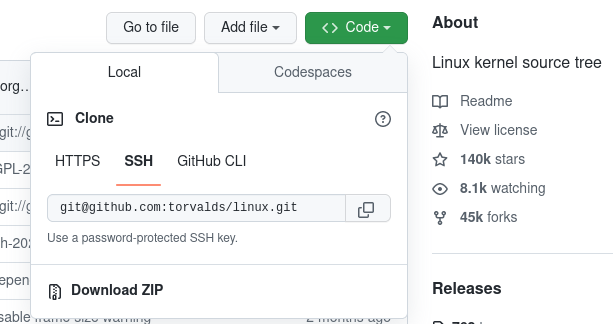
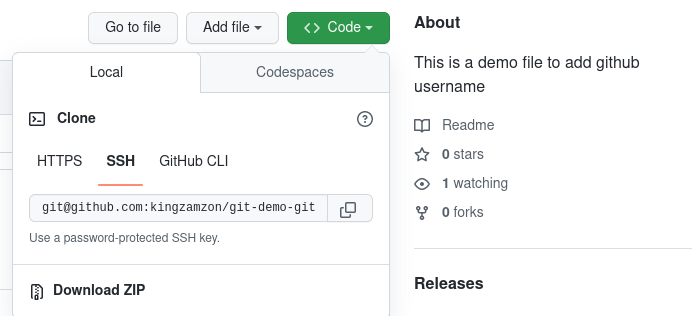
update images and steps

diff --git a/task-1/README.md b/task-1/README.md
@@ -1,8 +1,7 @@
 ## Introduction to GitHub
 
-Have you ever thought of going back to the changes you made to a file in last 2 days after shutting down your laptop? Good news: Version control system are tools that let you have different versions of your file. But what if you lost the file totally on your laptop? GitHub is an online version control system for your local repository/folder.
-One of the popular version control system is Git.
-Git ease collaboration and tracking of file.
+Have you ever thought of going back to the changes you made to a file in last 2 days after shutting down your laptop? Good news, you can do that with version control system. Version control system are tools that let you have different versions of your file e.g Git.
+But what if the file goes missing on your laptop? There are various online version control system e.g GitHub.
 GitHub is an online version of Git. I will work you through basics of GitHub in this article.
 
 ## Prerequisites
@@ -12,15 +11,15 @@ GitHub is an online version of Git. I will work you through basics of GitHub in 
 
 ## What is GitHub?
 
-GitHub is the online version of Git. It host the largest source code in the world.
+GitHub is the online version of Git. It host the largest source code in the world e.g [Linux kernel](https://GitHub.com/torvalds/linux), [vscode](https://github.com/microsoft/vscode) e.t.c
 
 ## Why GitHub?
 
-GitHub cause it houses all the popular source codes ranging from react to Linux kernel. It's popularity make it easy to reach other developers around the world.
+GitHub houses all the popular source codes ranging from [react](https://github.com/facebook/react) to [Nodejs](https://github.com/nodejs/node). It's popularity make it easy to reach other developers around the world.
 
-## Git vs. GitHub
+## Git vs GitHub
 
-Git is a version control system. It is used to track changes on files, enable collaboration on files.
+Git is a decentralized version control system. It is used to track changes on files, enable collaboration on files.
 
 GitHub is a web based version of Git on the internet.
 
@@ -28,49 +27,45 @@ GitHub is a web based version of Git on the internet.
 
 Clone a repository is pulling down a full copy of repository to your local machine.
 
-1. Navigate to the repository you want to clone, in this example we will use clone the [Linux kernel](https://GitHub.com/torvalds/linux)
-2. Click on the green <> code button.
-3. Copy the url for the repository by clicking on the copy button ![Copy Button](./images/img2a.png) using one of the option HTTPS, SSH or GitHub CLI
+1. Navigate to the repository you want to clone, in this example I will clone the [Git Demo Github](https://github.com/kingzamzon/git-demo-github) repository.
+2. Click on the green `<> code` button.
+3. Copy the url for the repository by clicking on the copy button ![Copy Button](./images/img2a.png) using the SSH option.
    ![Copy drop down](./images/img2b.png)
 4. Open Your Terminal
 5. Type `git clone` and paste the link you copied in 3, press enter to start cloning.
-
-![Clone Button](./images/img1.png)
+   ![Clone Button](./images/img2c.png)
 
 ## Pull request
 
 Pull Request is a way to contribute to repository on GitHub. It is a mechanism for a developer to notify team members that they have completed a feature.
 
-1. Fork the repository, by clicking on the fork buton. In this example I am using this repo [App-Ideas Repository](https://GitHub.com/DannieBabz/App-Ideas--JS)
+1. Fork the repository, by clicking on the fork button. In this example I using the [Git Demo Github](https://github.com/kingzamzon/git-demo-github) repository.
 
-![Fork Button](./images/img3.png)
+   ![Fork Button](./images/img3.png)
 
 2. You will be navigated to the create a new fork section in which you can change the name of the repository name. When you done, Click on the `Create fork` button.
-
-![Fork Section](./images/img4.png)
+   ![Fork Section](./images/img4.png)
 
 3. Clone the repository using the instruction above on clone instruction.
 
-4. In your terminal, create a new branch and switch to the branch using ` git checkout -b new-branch`
+4. Open the clone repository with your favourite code editor e.g visual studio code(VSCode)
 
-5. Open the clone repository with your favourite code editor e.g visual studio code(VSCode)
+5. Edit the README.md file, add your github username and save. With VS Code, you get notification of the changes in the source control icon.
 
-6. Edit the file, you want to edit, in my case its the README.md file. With VS Code, you get notification of the changes in the source control icon.
-7. Once you have modified the file, stage it using `git add .`, which will stage all the update you have made so far.
-   If you didn't see any message it means success.
+6. Return to your already open terminal be sure you are in the right folder. Stage all changes using `git add .` or use `git add README.md`, to stage only the README.md file. If you didn't see any message it means success.
 
-8. You can use `git status` command to check the current stage and changes made.
+7. You can use `git status` command to check the current stage and changes made.
 
-9. Still in the terminal, enter `git commit -m "update readme file with link to project readme`
+8. Still in the terminal, enter `git commit -m "update readme file with github username"`
    ![Git Commit Message](./images/img5.png)
-10. Push your branch to GitHub using `git push --set-upstream origin new-branch`
-11. Navigate to the repository on GitHub, and clicked on Pull requests on the menu.
-    ![Pull requests tab](./images/img6.png)
-12. Click on `New pull request` green button. Change branch to your new created branch. Change the your repo branch to the new branch you just created.
+
+9. Navigate to the repository on GitHub, and clicked on Pull requests on the menu.
+   ![Pull requests tab](./images/img6.png)
+10. Click on `New pull request` green button. Change branch to your new created branch. Change the your repo branch to the new branch you just created.
     ![new pull request button ](./images/img7.png)
-13. Click on `Create pull request` button. Then click on Create pull request button at the button.
+11. Click on `Create pull request` button. Then click on Create pull request button at the button.
     ![create pull request ](./images/img8.png)
-14. Congratulation you just create your first pull request.
+12. Congratulation you just create your first pull request.
     ![congratulation ](./images/img9.png)
 
 ## Commit
